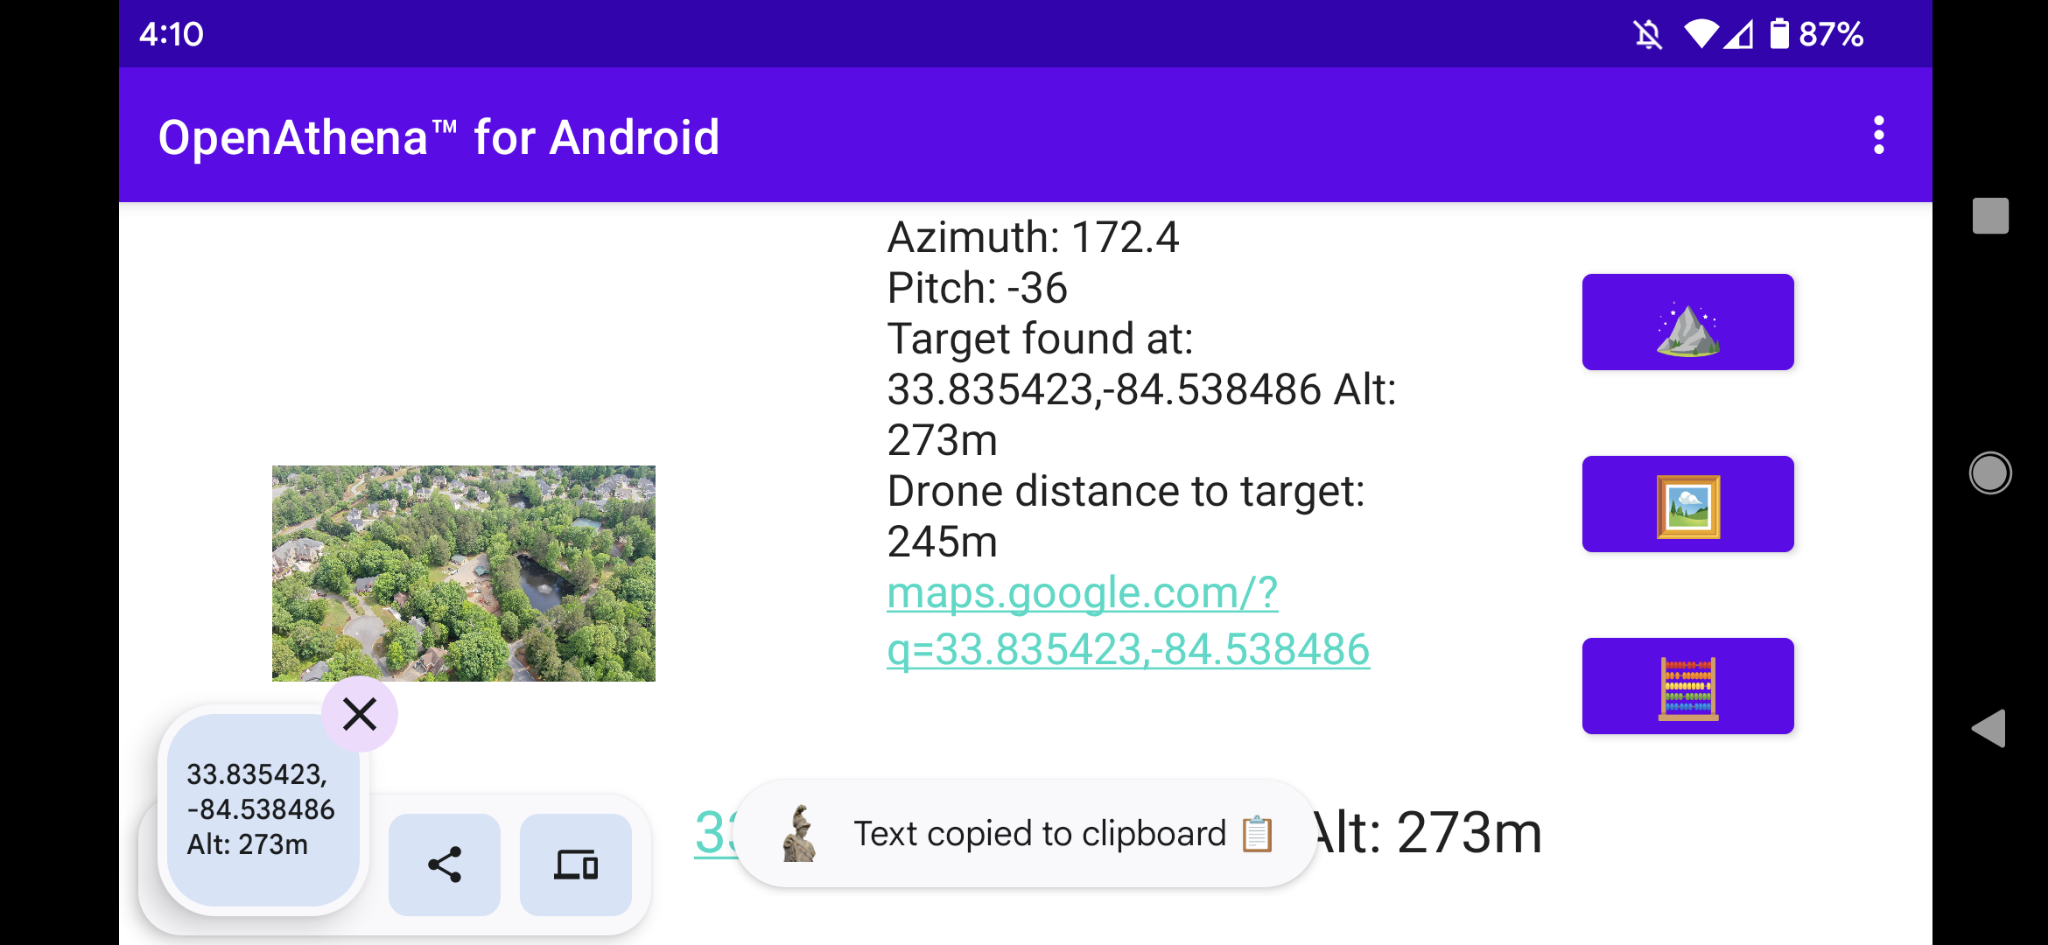
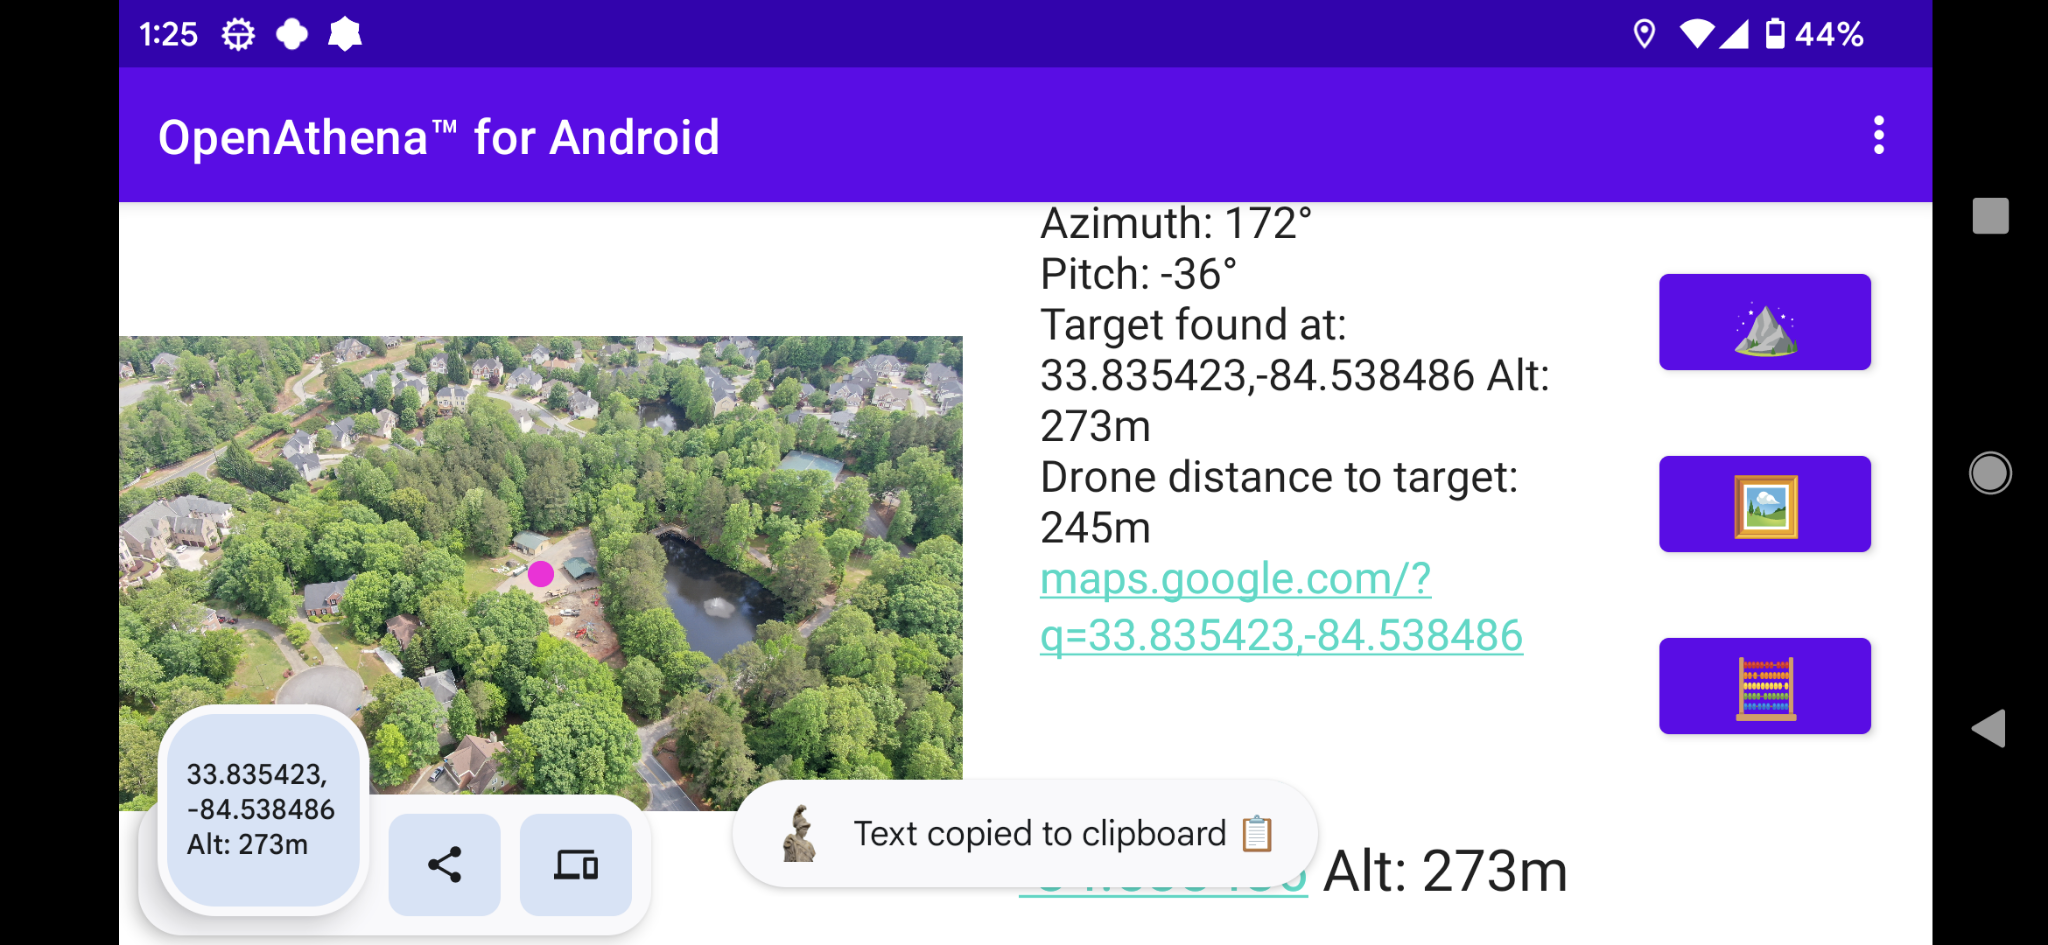
update README.md for v0.15.0

diff --git a/README.md b/README.md
@@ -70,6 +70,18 @@ When the "🧮" button is pressed, OpenAthena will automatically send a multicas
 
 Change the marker to its appropriate type (friend, suspect, hostile) then send the target to other networked users.
 
+## Arbitrary Point Selection
+
+OpenAthena for Android allows the user to tap any arbitrary point in the image to locate it.
+
+A tap at any point in the image will move the marker and calculate the new location:
+
+<img width="586" alt="OpenAthena for Android demo of arbitrary point selection for raycast calculation" src="./assets/DJI_0419_Target_Res_Arbitrary_Point_Demo_landscape.png">
+
+A new Cursor-on-Target message will not be sent to ATAK however until the "🧮" button is pressed:
+
+<img width="586" alt="OpenAthena for Android demo of a cursor on target message calculated for an arbitrary point selected in a drone image" src="./assets/ATAK_OpenAthena_CoT_Arbitrary_Point_Demo_landscape.png">
+
 # Application Settings (optional) ⚙:
 
 OpenAthena for Android supports multiple output modes for target calculation, including:
